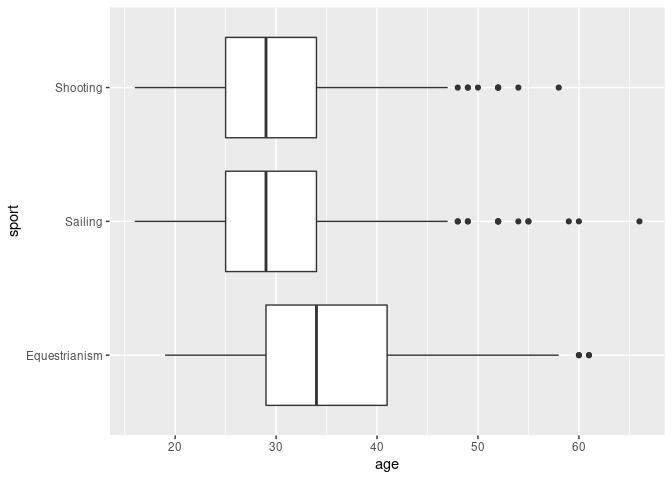
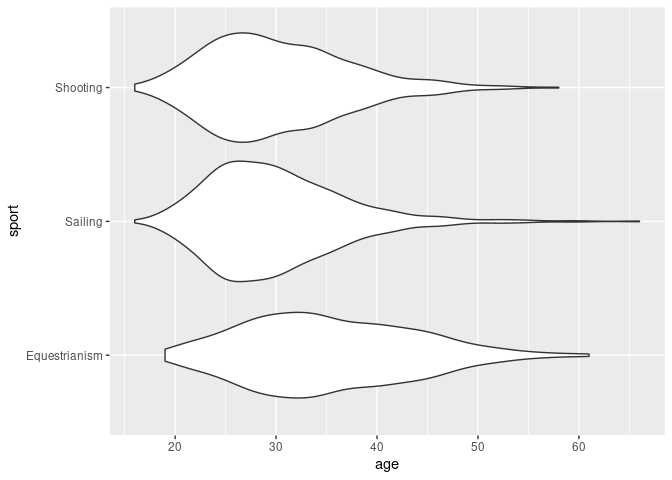
box plot for every sport

diff --git a/proposal/proposal.md b/proposal/proposal.md
@@ -193,6 +193,18 @@ olympics %>%
 
 ``` r
 olympics %>%
+  group_by(sport) %>%
+  na.omit(medal) %>%
+  mutate(n_medal = medal %in% c("Bronze", "Silver", "Gold")) %>%
+  ggplot(aes(y = sport, x = age, colour = sport)) +
+  geom_boxplot() +
+  theme(axis.text.y = element_text(size = 6), legend.position = "none")
+```
+
+![](proposal_files/figure-gfm/unnamed-chunk-5-2.png)<!-- -->
+
+``` r
+olympics %>%
   count(sport, sort = TRUE)
 ```
 
@@ -296,7 +308,7 @@ olympics %>%
   group_by(age) %>%
   mutate(n_medal = medal %in% c("Bronze", "Silver", "Gold")) %>%
   ggplot(aes(x = age, y = sport, colour = age)) +
-  geom_boxplot()
+  geom_violin()
 ```
 
 ![](proposal_files/figure-gfm/unnamed-chunk-10-1.png)<!-- --> 3. Make a
